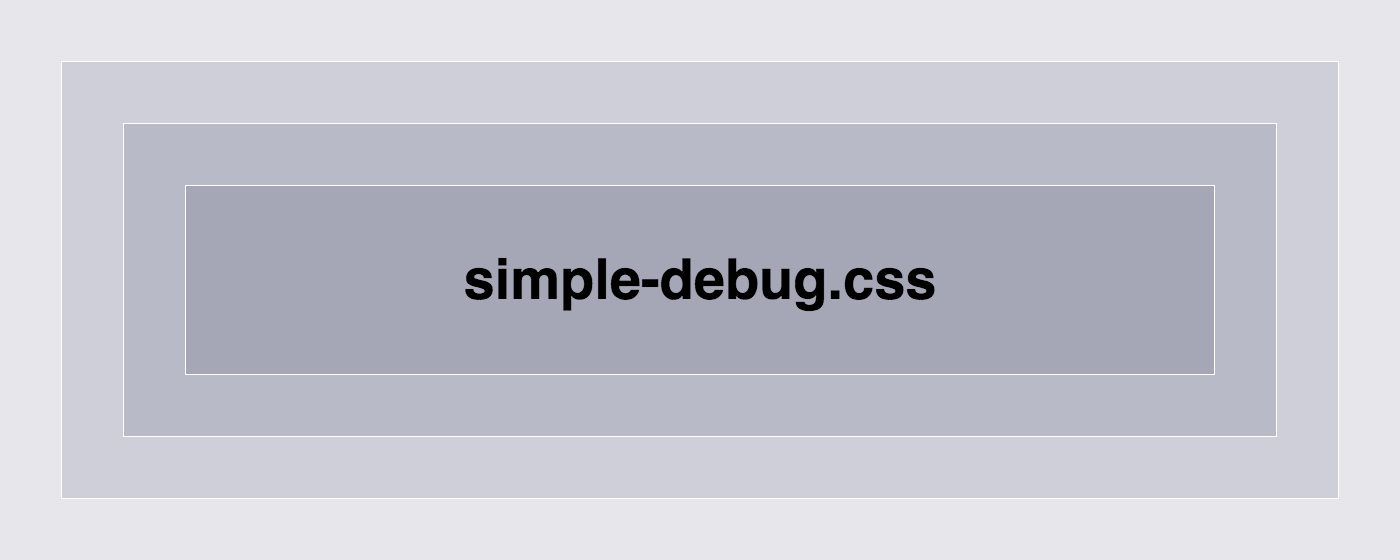
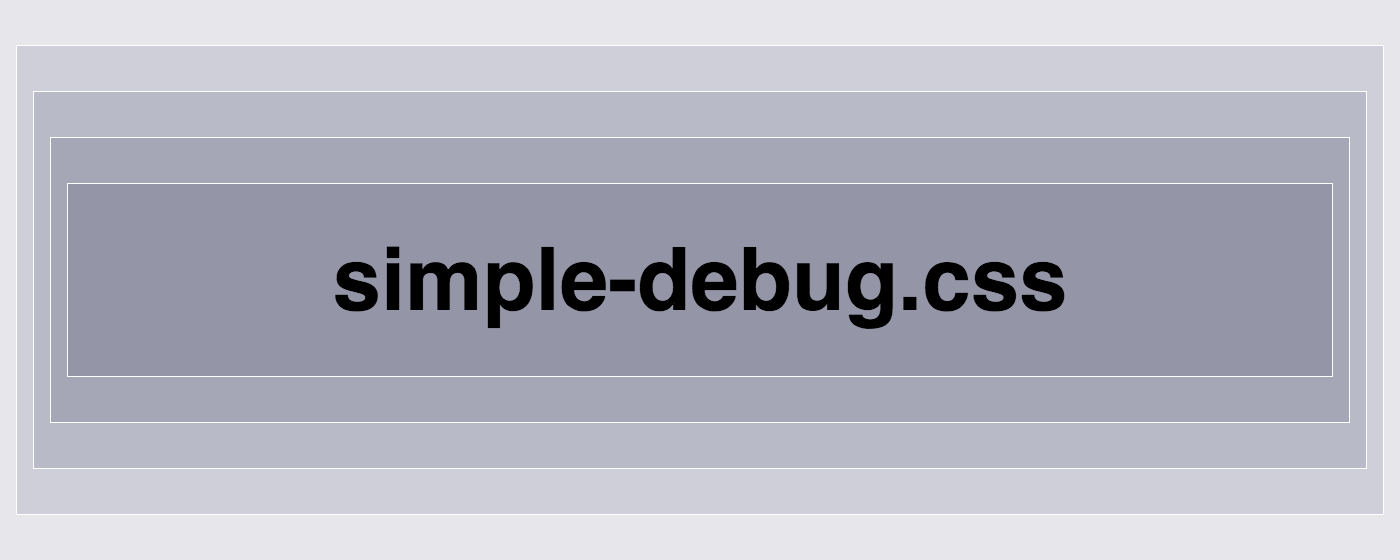
Add pulse and noew promo images

Changed region(s): [[0.0, 0.1518, 0.9829, 0.85], [0.215, 0.425, 0.7679, 0.6071]]

diff --git a/index.html b/index.html
@@ -5,12 +5,8 @@
         <title>simple-debug.css</title>
         <meta name=description content="Debug your layouts with one line of CSS">
         <meta name="viewport" content="width=device-width">
-        <link rel="stylesheet" href="simple-debug.css">
         <link rel="icon" href="favicon.ico" type="image/x-icon">
-        <style>
-            /* Demo styles */
-            *{padding:1rem}body{margin:0;font:14px sans-serif}a,code,b,i,small{padding:0}a{color:#000}pre{white-space:pre-wrap}
-        </style>
+        <style>*{padding:1rem;outline:1px solid #fff}body{margin:0;font:14px sans-serif}a,code,b,i,small{padding:0}a{color:#000}pre{white-space:pre-wrap}@-webkit-keyframes pulse{to{background-color:rgba(0,2,54,.1)}}@keyframes pulse{to{background-color:rgba(0,2,54,.1)}}*{-webkit-animation: pulse 3s infinite ease-in-out alternate;animation: pulse 3s infinite ease-in-out alternate}</style> 
     </head>
     <body>
         <header>
